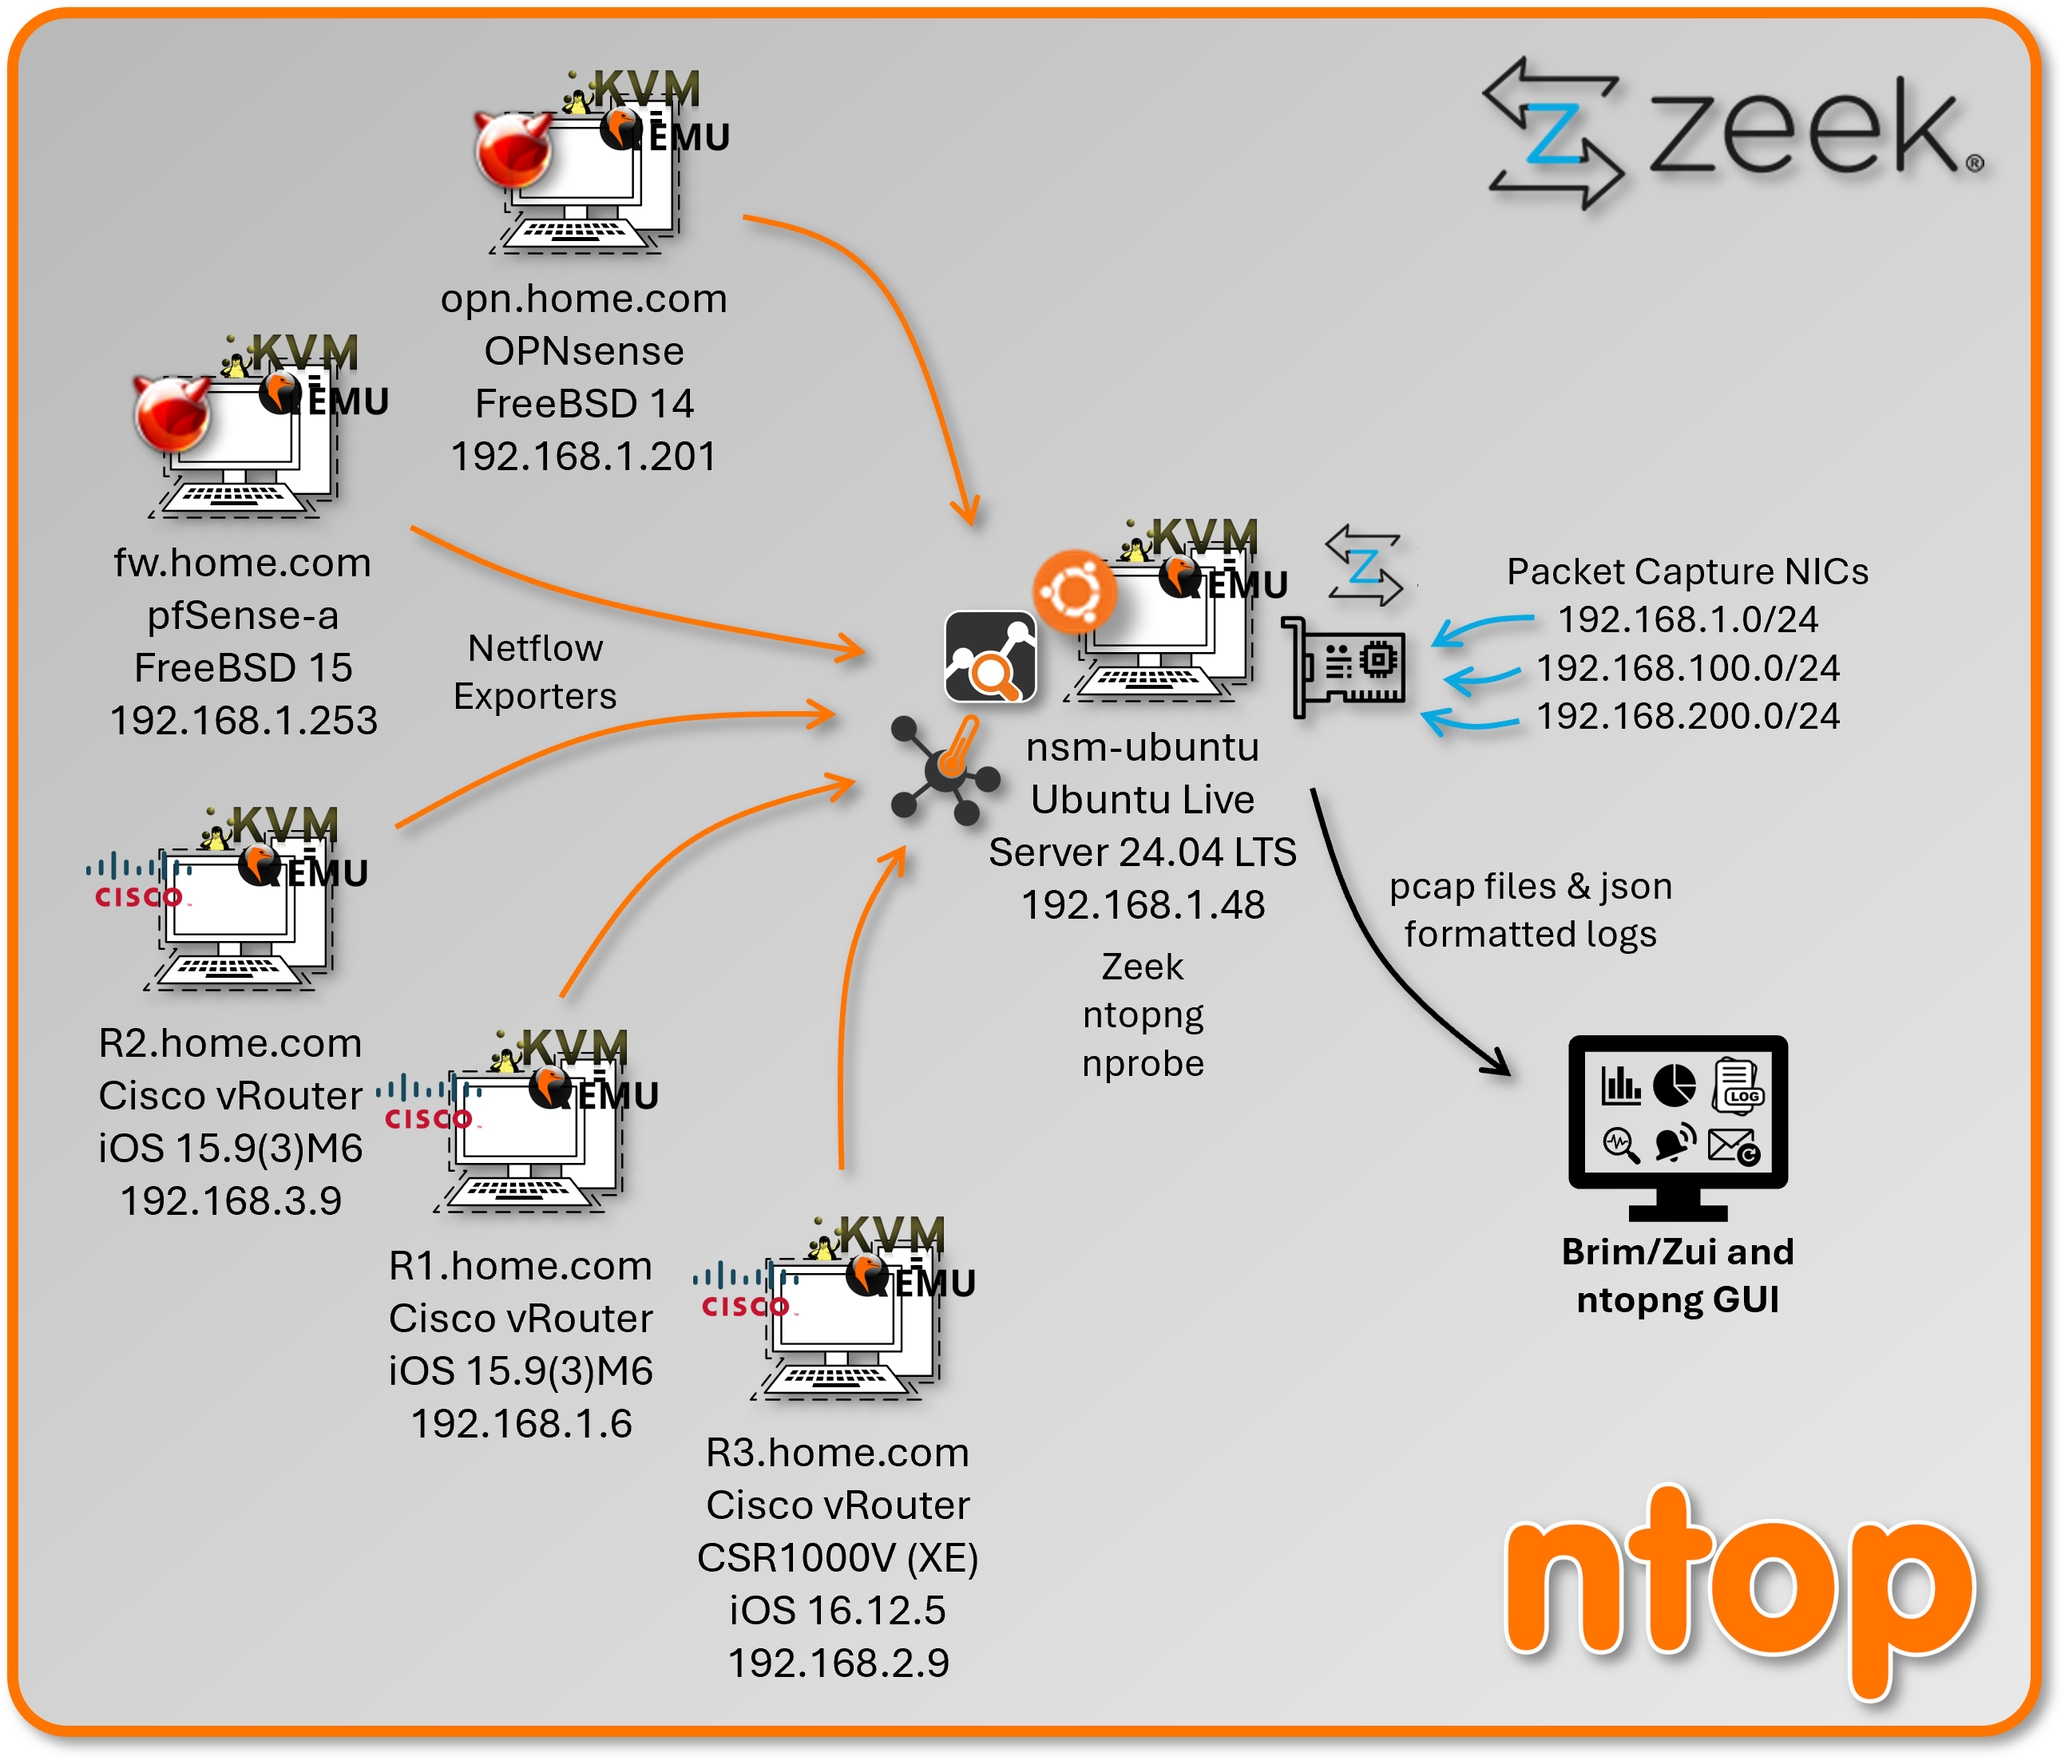
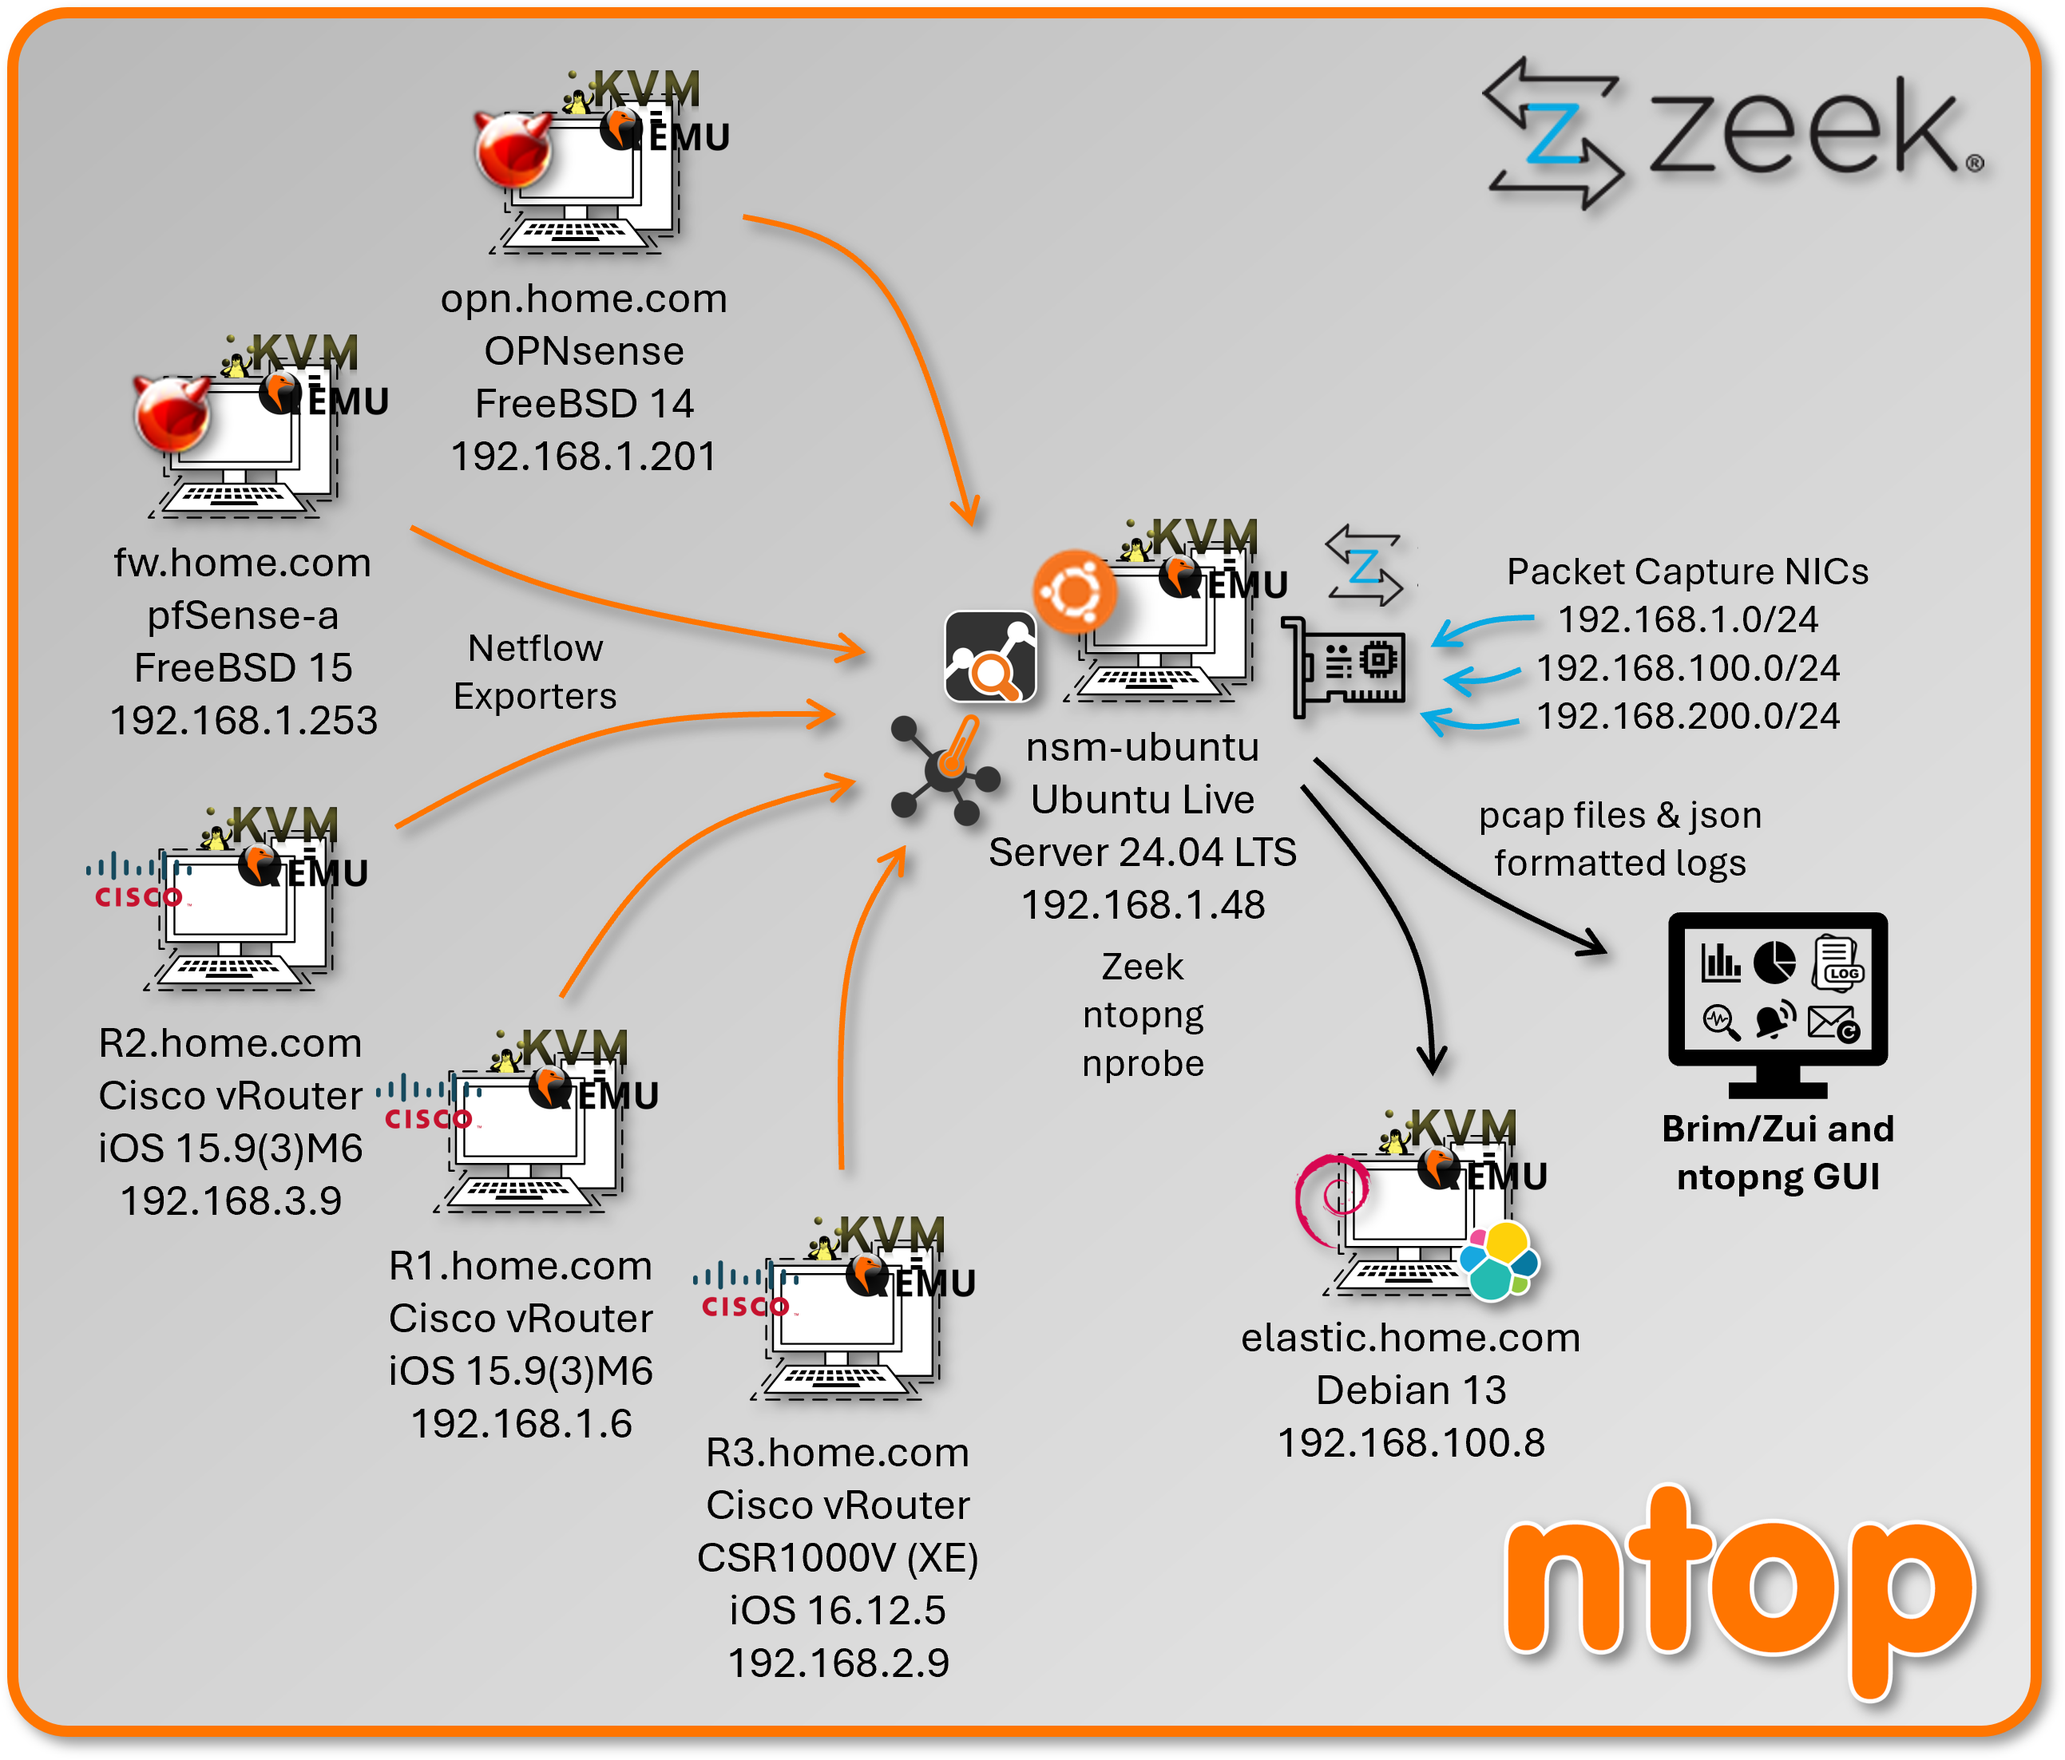
updatre

Changed region(s): [[0.5878, 0.4317, 0.9281, 0.8327]]

diff --git a/docs/projects/homelab/08-vis-response-pt2.md b/docs/projects/homelab/08-vis-response-pt2.md
@@ -873,7 +873,7 @@ The Pulse main dashboard provides a real-time operational view of the Proxmox en
 Reports on the various backup methods. The dashboard provides details on snapshot status and PBS status and history of backups.
 
 <figure>
-  <img src="/Career_Projects/assets/diagrams/nsm-overview.png" alt="Pulse Backup Dashboard">
+  <img src="/Career_Projects/assets/screenshots/pulse-backup-dashboard.png" alt="Pulse Backup Dashboard">
   <figcaption style="font-size:0.9rem; color:var(--md-secondary-text-color); margin-top:0.5rem;">
     Pulse Backup Dashboard
   </figcaption>
@@ -898,13 +898,13 @@ Summary of current alerts, configured thresholds, notifications, schedule and al
 <div class="two-col-right">
   <div class="text-col">
     <p>
-      The NSM host is a dedicated Ubuntu-based sensor VM running on Proxmox, purpose-built for deep packet inspection, network flow collection, and protocol metadata extraction. It operates as a passive, observe-only node — no traffic is routed through it. Zeek provides full protocol metadata logging across all monitored segments; ntopng provides flow-level visibility via NetFlow v9 ingestion from Cisco infrastructure. Log output feeds both the Elastic stack for long-term retention and Brim/Zui for local forensic analysis.
+      The NSM host is a dedicated Ubuntu-based sensor VM running on Proxmox, purpose-built for deep packet inspection, network flow collection, and protocol metadata extraction. It operates as a passive, observe-only node — no traffic is routed through it. Zeek provides full protocol metadata logging across all monitored segments; ntopng provides flow-level visibility via NetFlow v9 ingestion from network firewalls and Cisco devices. Log output feeds both the Elastic stack for long-term retention and Brim/Zui for local forensic analysis.
     </p>
   </div>
 
   <div class="image-col">
     <figure>
-      <img src="/Career_Projects/assets/screenshots/nsm-sensor.png" alt="NSM Sensor — Zeek and ntopng">
+      <img src="/Career_Projects/assets/diagrams/nsm-overview.png" alt="NSM Sensor — Zeek and ntopng">
       <figcaption style="font-size:0.9rem; color:var(--md-secondary-text-color); margin-top:0.5rem;">
         NSM Sensor — Zeek and ntopng.
       </figcaption>
